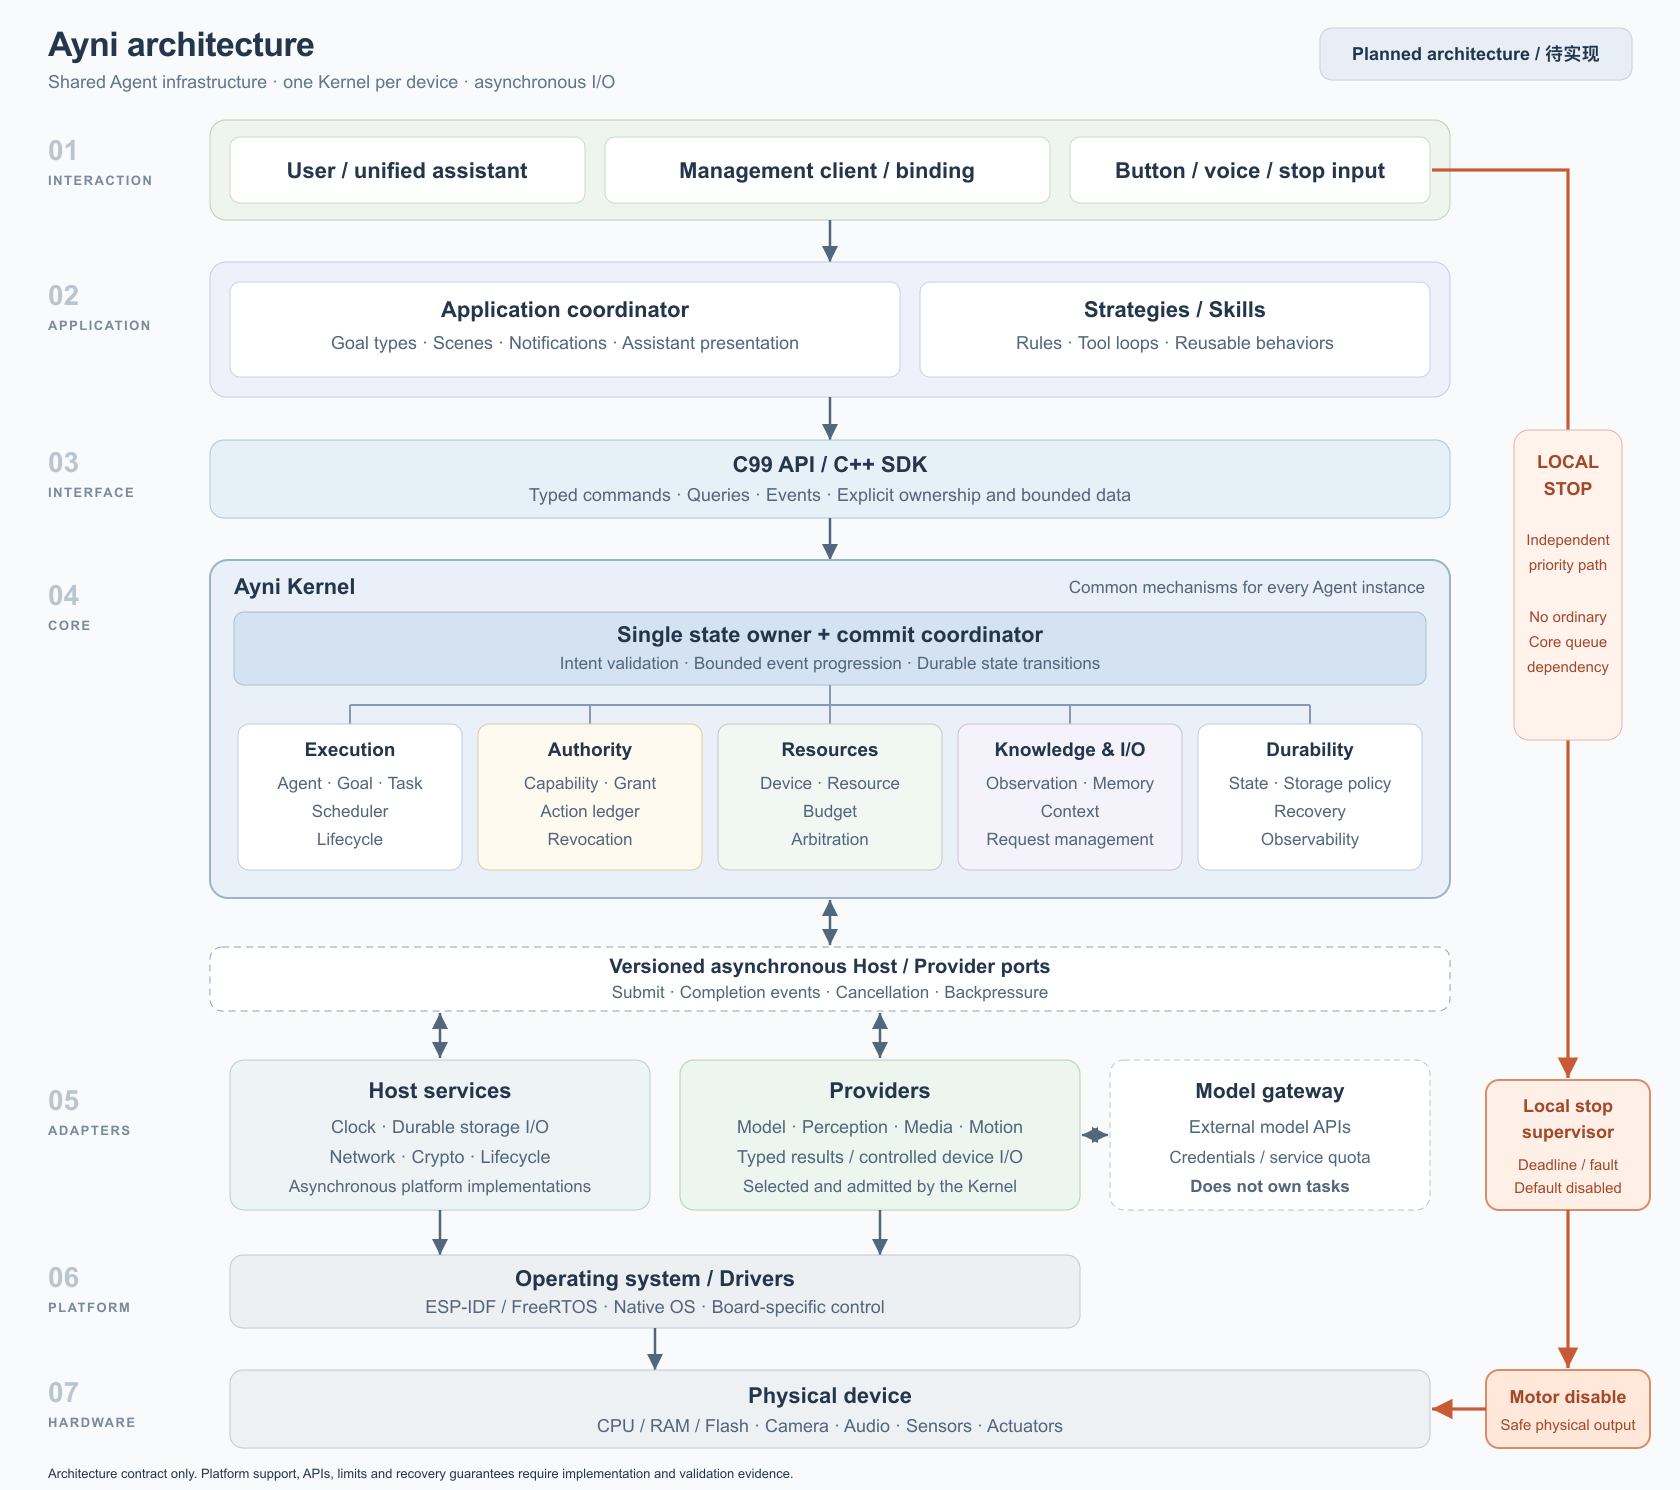
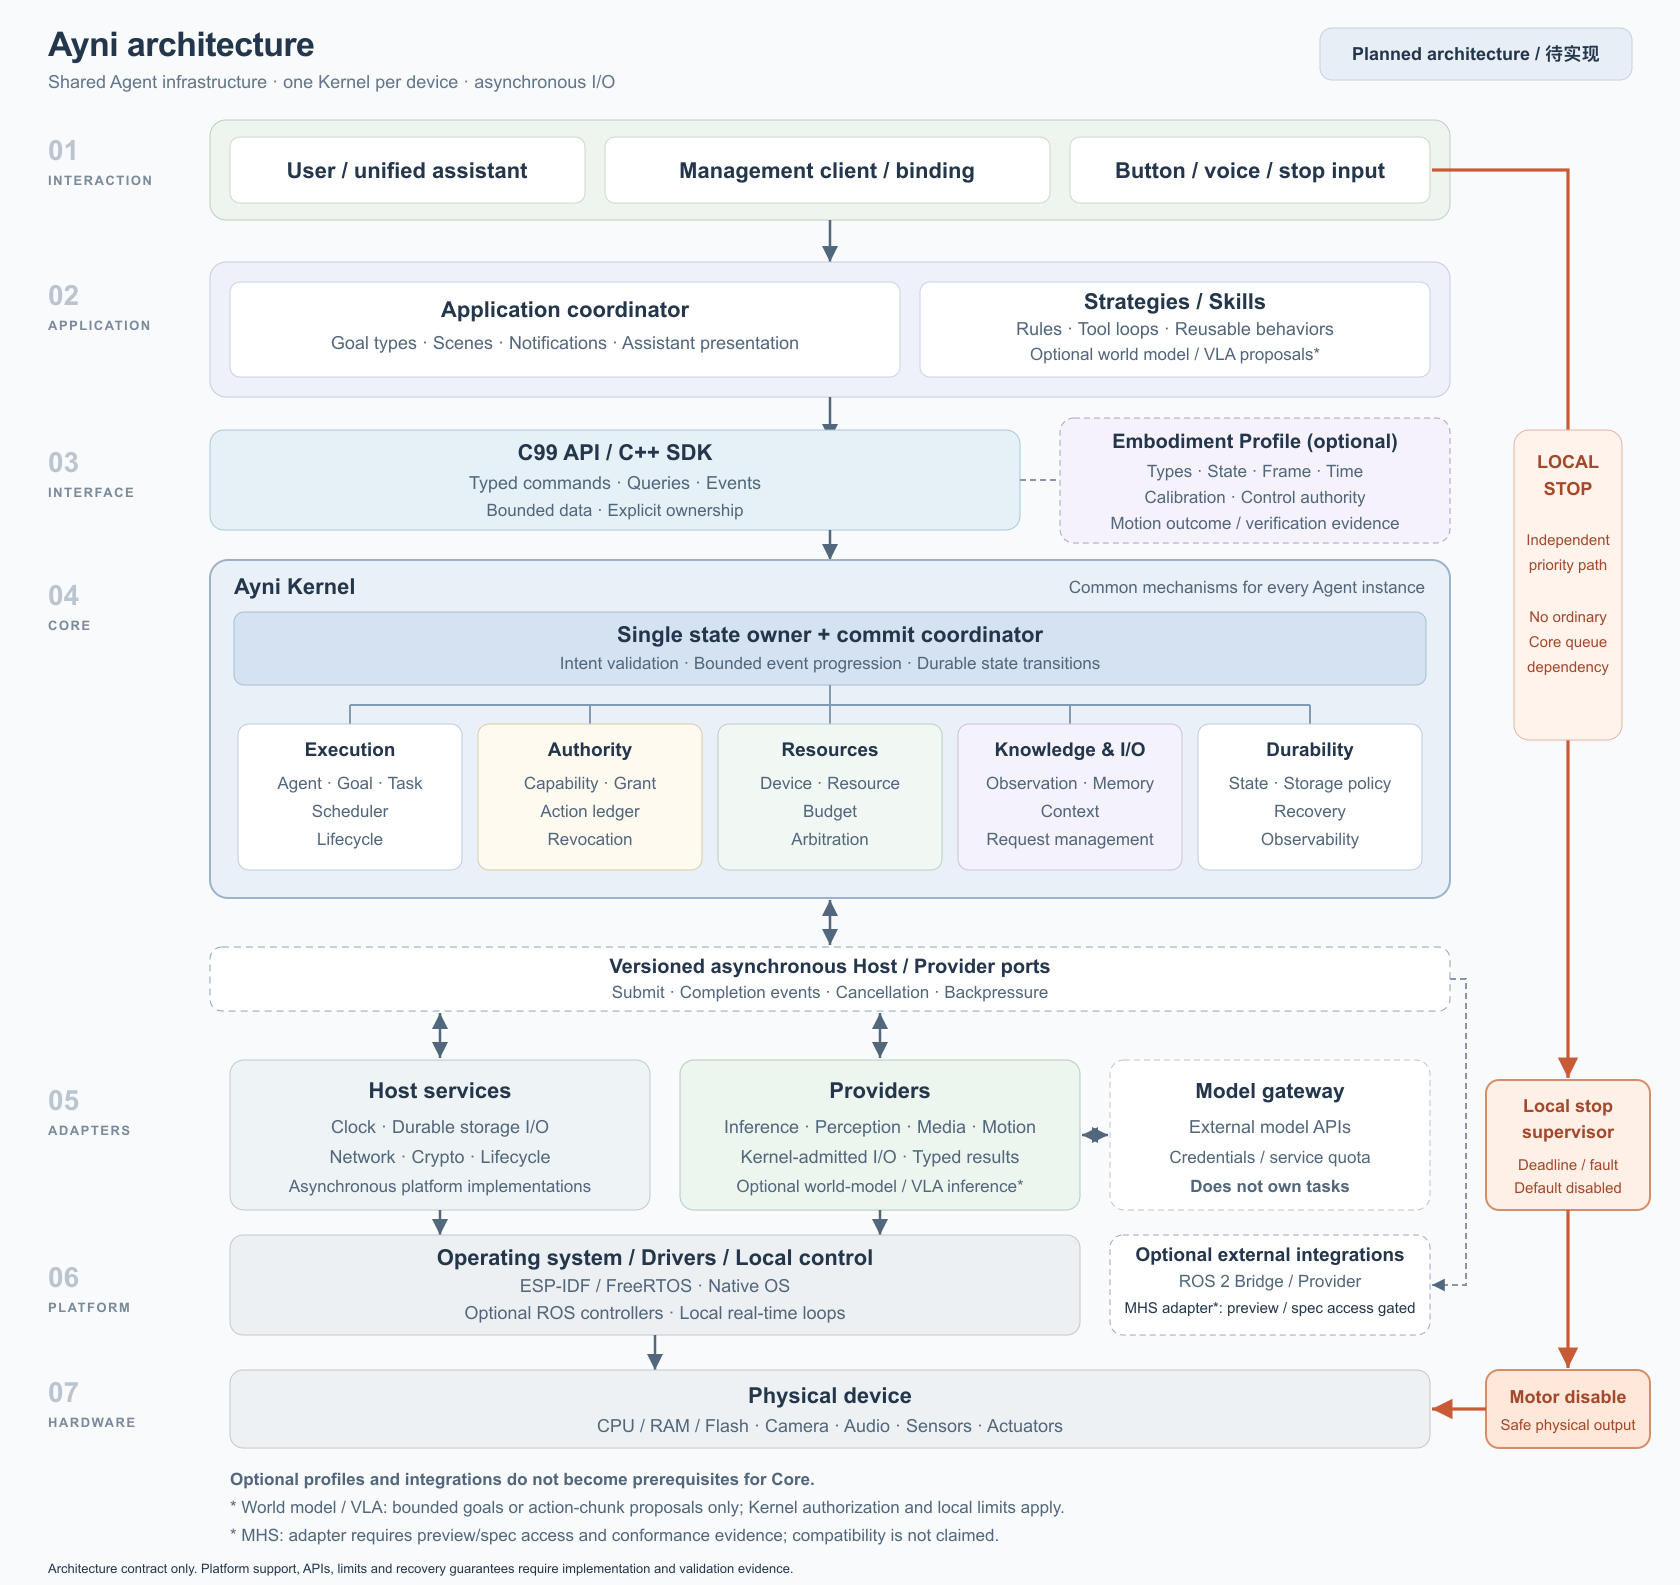
docs: define optional embodiment and robotics integration contracts

diff --git a/README.en.md b/README.en.md
@@ -12,6 +12,8 @@ See the [Ayni implementation plan](docs/ayni_v1.0.md) (Chinese) for the complete
 
 Ayni defines its architecture around its own task, authorization, resource, and recovery requirements. It plans a portable C++17 Core for desktops and constrained devices, with a C99-compatible API and a C++ wrapper. The first hardware validation target is an existing ESP32-S3 board; its exact model and capacities still require measurement.
 
+Ayni's domain contracts govern tasks, authorization, and execution; external ROS 2, MHS, and MCP protocols connect through adapters, which normally absorb field changes, while new execution semantics require versioned evolution and may change Core.
+
 ![Ayni architecture](docs/assets/ayni-architecture.svg)
 
 | Layer | Responsibilities and function abstractions |
@@ -57,21 +59,37 @@ v0.1 plans local-network management, push-button voice interaction, continuous v
 
 These contracts evolve independently and remain aligned through domain definitions and conformance fixtures. The API is experimental. Message IDs, operation IDs, and local request epochs serve different purposes; the protocol makes no universal exactly-once execution guarantee.
 
+## Optional embodied profiles and adapters
+
+The optional `EMBODIMENT_V1` profile defines schemas and constraints on existing primitives for embodied capabilities, negotiated by feature and governed by the three versioned contracts. Ordinary devices need neither robot-specific fields nor a ROS dependency.
+
+| Contract | Planned boundary |
+|---|---|
+| Observations and robot state | Specify frames, clock domains/epochs, units, calibration versions, and `RobotState`; tf2, URDF, perception, and coordinate transforms remain in Providers or bridges |
+| Control authority and local execution | `ControlAuthority` binds control epochs, command sequences, and maximum command age; local control sessions are bounded and subject to interlocks, while local controllers run real-time loops |
+| Motion outcomes and models | `MotionOutcome` distinguishes accepted, executed, stopped, and physically verified states; VLA outputs are candidates that require authorization, resource admission, and local control checks |
+
+The ROS 2 Bridge remains outside Core and maps Topics/Services/Actions to `subscription/unary/action`. Imports and exports use existing managed entry points. The Bridge records mappings between ROS goal UUIDs and Ayni call identities; ROS acceptance, cancellation responses, and QoS do not themselves provide durable deduplication, authorization, or physical-stop guarantees. M3 first validates a Linux Native Kernel and ROS simulation nodes on the same computer. PC/ESP32 paths wait for M5; MCU micro-ROS requires later capacity, concurrency, and disconnection testing.
+
+As of 2026-10-18, MHS (Model Hardware Standard) remains a research preview; see the [official introduction](https://www.anthropic.com/news/model-hardware-standard-research-preview) and [preview portal](https://www.modelhardwarestandard.com/). Adaptation requires a specific, actionable specification, lawful access, licensing, and test fixtures; any SDK used must have a pinned version. Current compatibility is not claimed. Import/export must use the same authorization, schema validation, and execution entry points. Arbitrary generated code must not be deployed directly to the MCU.
+
 ## Roadmap and validation
 
 | Stage | Target and gate |
 |---|---|
-| M0 | Contracts, project skeletons, pinned tooling, and board/BOM feasibility |
-| M1 · Core Alpha | Native Core, simulator, and SDK; E1–E4 pass on desktop and reproduce in Linux CI |
+| M0 | Contracts, project skeletons, pinned tooling, board/BOM feasibility, and an optional embodied-profile draft |
+| M1 · Core Alpha | Native Core, simulator, and SDK; E1–E4 pass on desktop and reproduce in Linux CI; optional Mock conformance R1.a |
 | M2 · Core Beta | The same Core, E1–E4, and hardware/model/strategy/composite-workflow extension examples validated on ESP32 |
-| M3 | Camera, push-button voice, chassis, independent stopping, and authorized turning; real concurrency and cost validation |
+| M3 | Camera, push-button voice, chassis, independent stopping, and authorized turning; real concurrency and cost validation; optional Linux ROS 2 Bridge/simulation R1.b |
 | M4 · v0.1 | Provisioning, binding, management UX, gateway, and controlled user trials; real OTA/rollback and at least 72 hours of integrated hardware endurance testing |
 | M5 · v0.2 | Independent PC and ESP32 instances, authentication, remote calls, deduplication, queries, and disconnection recovery |
-| M6 | Separately gated hosts, durable subtask delegation, MCP/A2A adapters, more sensors and mechanisms, and third-party isolation |
+| M6 | Separately gated hosts, durable subtask delegation, MCP/A2A adapters, more sensors and mechanisms, third-party isolation, and conditional MHS adaptation R1.c |
 
 E1 checks multiple Agents sharing system services. E2 checks restarts at critical action stages. E3 checks replacing a model or compatible strategy after restart. E4 checks bounded composition, subscription dependencies, and semantic upgrades/rollback. It covers invalidating in-flight dependencies, step recovery, pausing on incompatible versions, and simulated storage migration/rollback; real OTA is validated in M4. Experiments pass in a deterministic simulator first, then on ESP32, followed by real hardware validation.
 
 Planned extension examples include `new_hardware`, `new_model`, `new_strategy`, and `composite_workflow`. A new composite application must work through public interfaces without changing Kernel source.
+
+R1 is a separate optional conformance suite; E1–E4 remain the four mandatory experiments. R1.a checks Mock profile contracts. R1.b validates the Linux Bridge/simulation after M2 Core Beta. R1.c depends on MHS specifications, access, licensing, and test fixtures. These optional routes do not block v0.1. Claims of profile, ROS Bridge, or MHS support require the applicable R1.a, R1.a/b, or R1.a/c gates respectively, without exemption.
 
 Build, simulation, hardware functionality, and endurance results are reported separately. None of these results exist yet. Build commands, directories, and API examples in the plan are proposed implementation entry points.
 

diff --git a/README.md b/README.md
@@ -12,6 +12,8 @@
 
 Ayni 根据自身的任务、授权、资源与恢复需求设计架构，面向桌面与受限设备规划可移植 C++17 Core，并提供 C99 兼容 API 和 C++ 封装。首发验证目标是现有 ESP32-S3 开发板；具体板型和容量仍需实测。
 
+Ayni 的领域契约是任务、权限与执行语义的权威；ROS 2、MHS、MCP 等外部协议通过适配层接入，字段变化优先由适配层消化，新的执行语义按版本化契约演进，必要时调整 Core。
+
 ![Ayni 架构](docs/assets/ayni-architecture.svg)
 
 | 层级 | 职责与函数抽象 |
@@ -57,21 +59,37 @@ v0.1 计划提供局域网管理、按键语音、持续视觉采集与受限分
 
 三类版本独立演进，以领域契约和一致性用例保持对应；API 当前仍是实验性草案。消息 ID、操作 ID 与本机请求代际各司其职，协议不作通用“恰好执行一次”承诺。
 
+## 可选具身 Profile 与协议适配
+
+可选 `EMBODIMENT_V1` 是现有原语的具身领域 Schema 与约束，按特性协商，沿用三类版本契约；普通设备无需携带机器人字段，也无需依赖 ROS。
+
+| 契约 | 规划边界 |
+|---|---|
+| 观察与机器人状态 | 明确 frame、时间域/代际、单位、校准版本及 `RobotState`；tf2、URDF、感知与坐标变换实现留在 Provider/桥接侧 |
+| 控制权与本地执行 | `ControlAuthority` 绑定控制代际、命令序号与最大年龄；本地控制会话有界并受 interlock 约束，实时闭环由本地控制器执行 |
+| 运动结果与模型 | `MotionOutcome` 分别记录已接收、已执行、已停止及物理确认；VLA 输出仅为候选，经授权、资源及本地控制约束检查后才可执行 |
+
+ROS 2 Bridge 位于 Core 外，将 Topic/Service/Action 分别映射到 `subscription/unary/action`，导入与导出均走原有受管理入口。Bridge 保存 ROS goal UUID 与 Ayni 调用身份的映射；ROS 接收、取消响应及 QoS 本身不赋予持久去重、授权或物理停止保证。M3 优先验证同机 Linux Native Kernel 与 ROS 模拟节点；跨电脑/ESP32 路径另待 M5，MCU micro-ROS 留待容量、并发和失联行为验证。
+
+截至 2026-10-18，MHS（Model Hardware Standard）仍为研究预览，见[官方介绍](https://www.anthropic.com/news/model-hardware-standard-research-preview)与[预览入口](https://www.modelhardwarestandard.com/)。在确切可实施规范、合法访问、许可及验证夹具可得并经评估后才安排适配；使用 SDK 时另行锁定版本，不声明当前兼容。导入/导出须经过同一授权、Schema 和执行入口，不允许生成任意代码直接部署到 MCU。
+
 ## 实施路线与验证
 
 | 阶段 | 目标与门槛 |
 |---|---|
-| M0 | 固化契约、工程骨架、工具链和板级/BOM 可行性 |
-| M1 · Core Alpha | Native Core、模拟器与 SDK；电脑通过 E1–E4，Linux CI 重现 |
+| M0 | 固化契约、工程骨架、工具链和板级/BOM 可行性；可选具身 Profile 草案 |
+| M1 · Core Alpha | Native Core、模拟器与 SDK；电脑通过 E1–E4，Linux CI 重现；可选 Mock conformance R1.a |
 | M2 · Core Beta | ESP32 复核同一 Core、E1–E4、硬件/模型/策略及组合工作流接入示例 |
-| M3 | 摄像头、按键语音、底盘、停止监督器与授权转向；真实并发与成本验证 |
+| M3 | 摄像头、按键语音、底盘、停止监督器与授权转向；真实并发与成本验证；可选 Linux ROS 2 Bridge/模拟 R1.b |
 | M4 · v0.1 | 配网绑定、管理体验、网关与受控试用；真实 OTA/回滚及完整硬件至少 72 小时长稳 |
 | M5 · v0.2 | PC 与 ESP32 独立驻留、认证、远程调用、去重、查询与断连恢复 |
-| M6 | 按独立门槛扩展宿主、持久子任务委派、MCP/A2A、更多感知/机构及第三方隔离 |
+| M6 | 按独立门槛扩展宿主、持久子任务委派、MCP/A2A、更多感知/机构及第三方隔离；有条件的 MHS 适配 R1.c |
 
 E1 验证多个 Agent 共用系统服务；E2 验证动作关键阶段重启；E3 验证重启后替换模型或兼容策略；E4 验证有界组合、订阅依赖与语义升级/回滚。E4 包含在途依赖失效、步骤恢复、不兼容版本暂停及模拟存储迁移回滚；真实 OTA 在 M4 验证。先在确定性模拟器通过，再在 ESP32 复核，最后补齐真实硬件结果。
 
 计划接入示例包括 `new_hardware`、`new_model`、`new_strategy` 与 `composite_workflow`；新组合应用应复用公开接口完成，无需修改 Kernel 源码。
+
+R1 是独立的可选一致性套件，E1–E4 仍为四个必需实验。R1.a 验证 Profile 的 Mock 契约，R1.b 在 M2 Core Beta 通过后验证 Linux Bridge/模拟接入，R1.c 以 MHS 的规格、访问、许可及夹具为前提。可选路线不阻断 v0.1；声明 Profile、ROS Bridge 或 MHS 支持分别须通过相关 R1.a、R1.a/b 或 R1.a/c，门槛不得豁免。
 
 构建、模拟、实机功能和长稳结果分别报告。当前尚无这些验证结果；实施计划中的构建命令、目录和 API 示例均为待实现入口。
 
